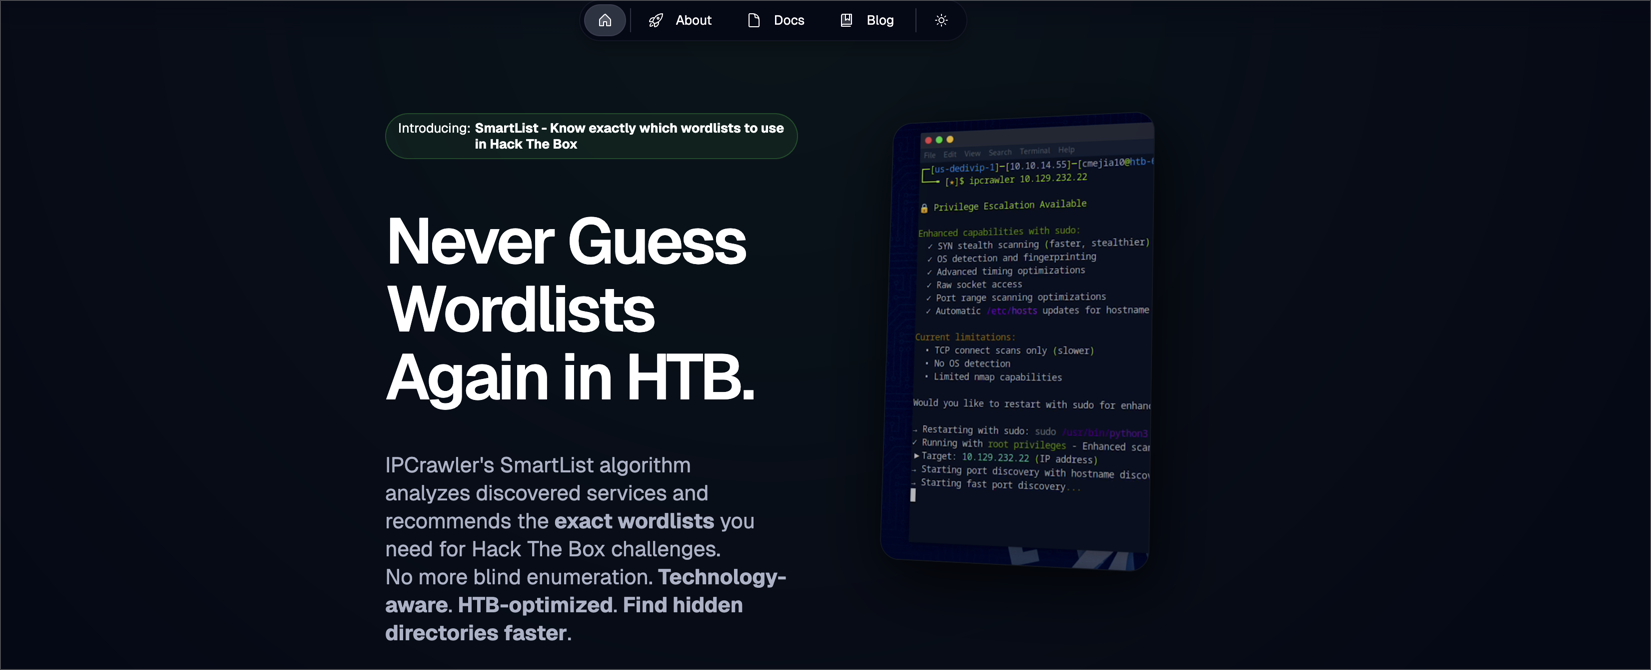
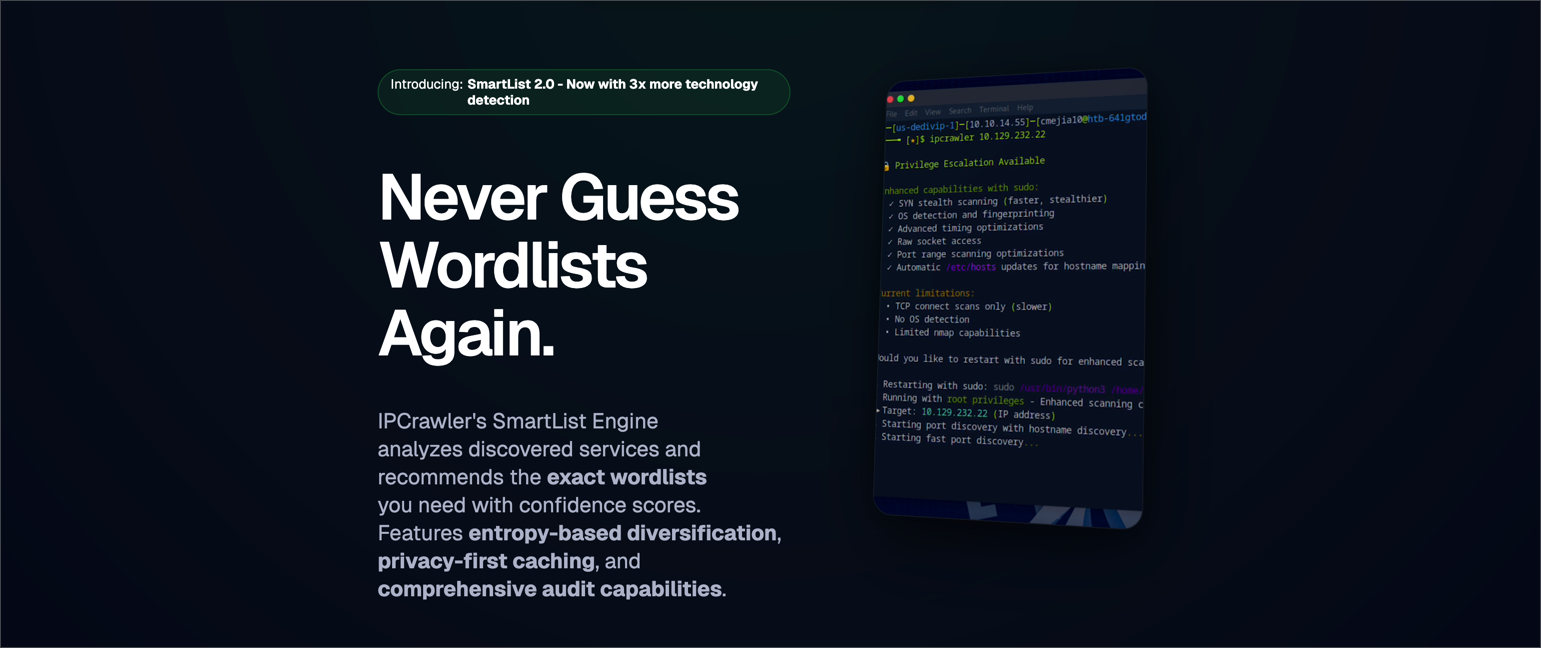
Update changelog for SmartList 2.0, enhance content presentation with ResponsiveTable, and modify featured post title for clarity.

diff --git a/src/components/ResponsiveTable.tsx b/src/components/ResponsiveTable.tsx
@@ -1,0 +1,29 @@
+'use client';
+
+import React from 'react';
+import { Table } from '@once-ui-system/core';
+
+interface ResponsiveTableProps {
+  headers: string[];
+  rows: (string | React.ReactNode)[][];
+}
+
+export function ResponsiveTable({ headers, rows }: ResponsiveTableProps) {
+  const tableData = {
+    headers: headers.map((header, index) => ({
+      content: header,
+      key: `header-${index}`
+    })),
+    rows: rows
+  };
+
+  return (
+    <div className="overflow-x-auto -mx-4 px-4 md:mx-0 md:px-0">
+      <div className="min-w-full inline-block align-middle">
+        <div className="overflow-hidden">
+          <Table data={tableData} />
+        </div>
+      </div>
+    </div>
+  );
+}

diff --git a/src/resources/content.js b/src/resources/content.js
@@ -49,7 +49,7 @@ const home = {
   featured: {
     display: true,
     // note: Do not modify the title, it's used for the featured post in the home page
-    title: <>Introducing: <strong className="ml-4">SmartList Engine v0.1.0-alpha-3 - Enhanced Error Handling & HTTP Intelligence Revolution</strong></>,
+    title: <>Introducing: <strong className="ml-4">SmartList 2.0 - Now with 3x more technology detection</strong></>,
     href: "/work/smartlist-algorithm",
   },
   subline: (

diff --git a/src/components/mdx.tsx b/src/components/mdx.tsx
@@ -22,6 +22,7 @@ import {
   Media,
   SmartLink,
 } from "@once-ui-system/core";
+import { ResponsiveTable } from "./ResponsiveTable";
 
 type CustomLinkProps = React.AnchorHTMLAttributes<HTMLAnchorElement> & {
   href: string;
@@ -179,6 +180,7 @@ const components = {
   Accordion,
   AccordionGroup,
   Table,
+  ResponsiveTable,
   Feedback,
   Button,
   Card,
